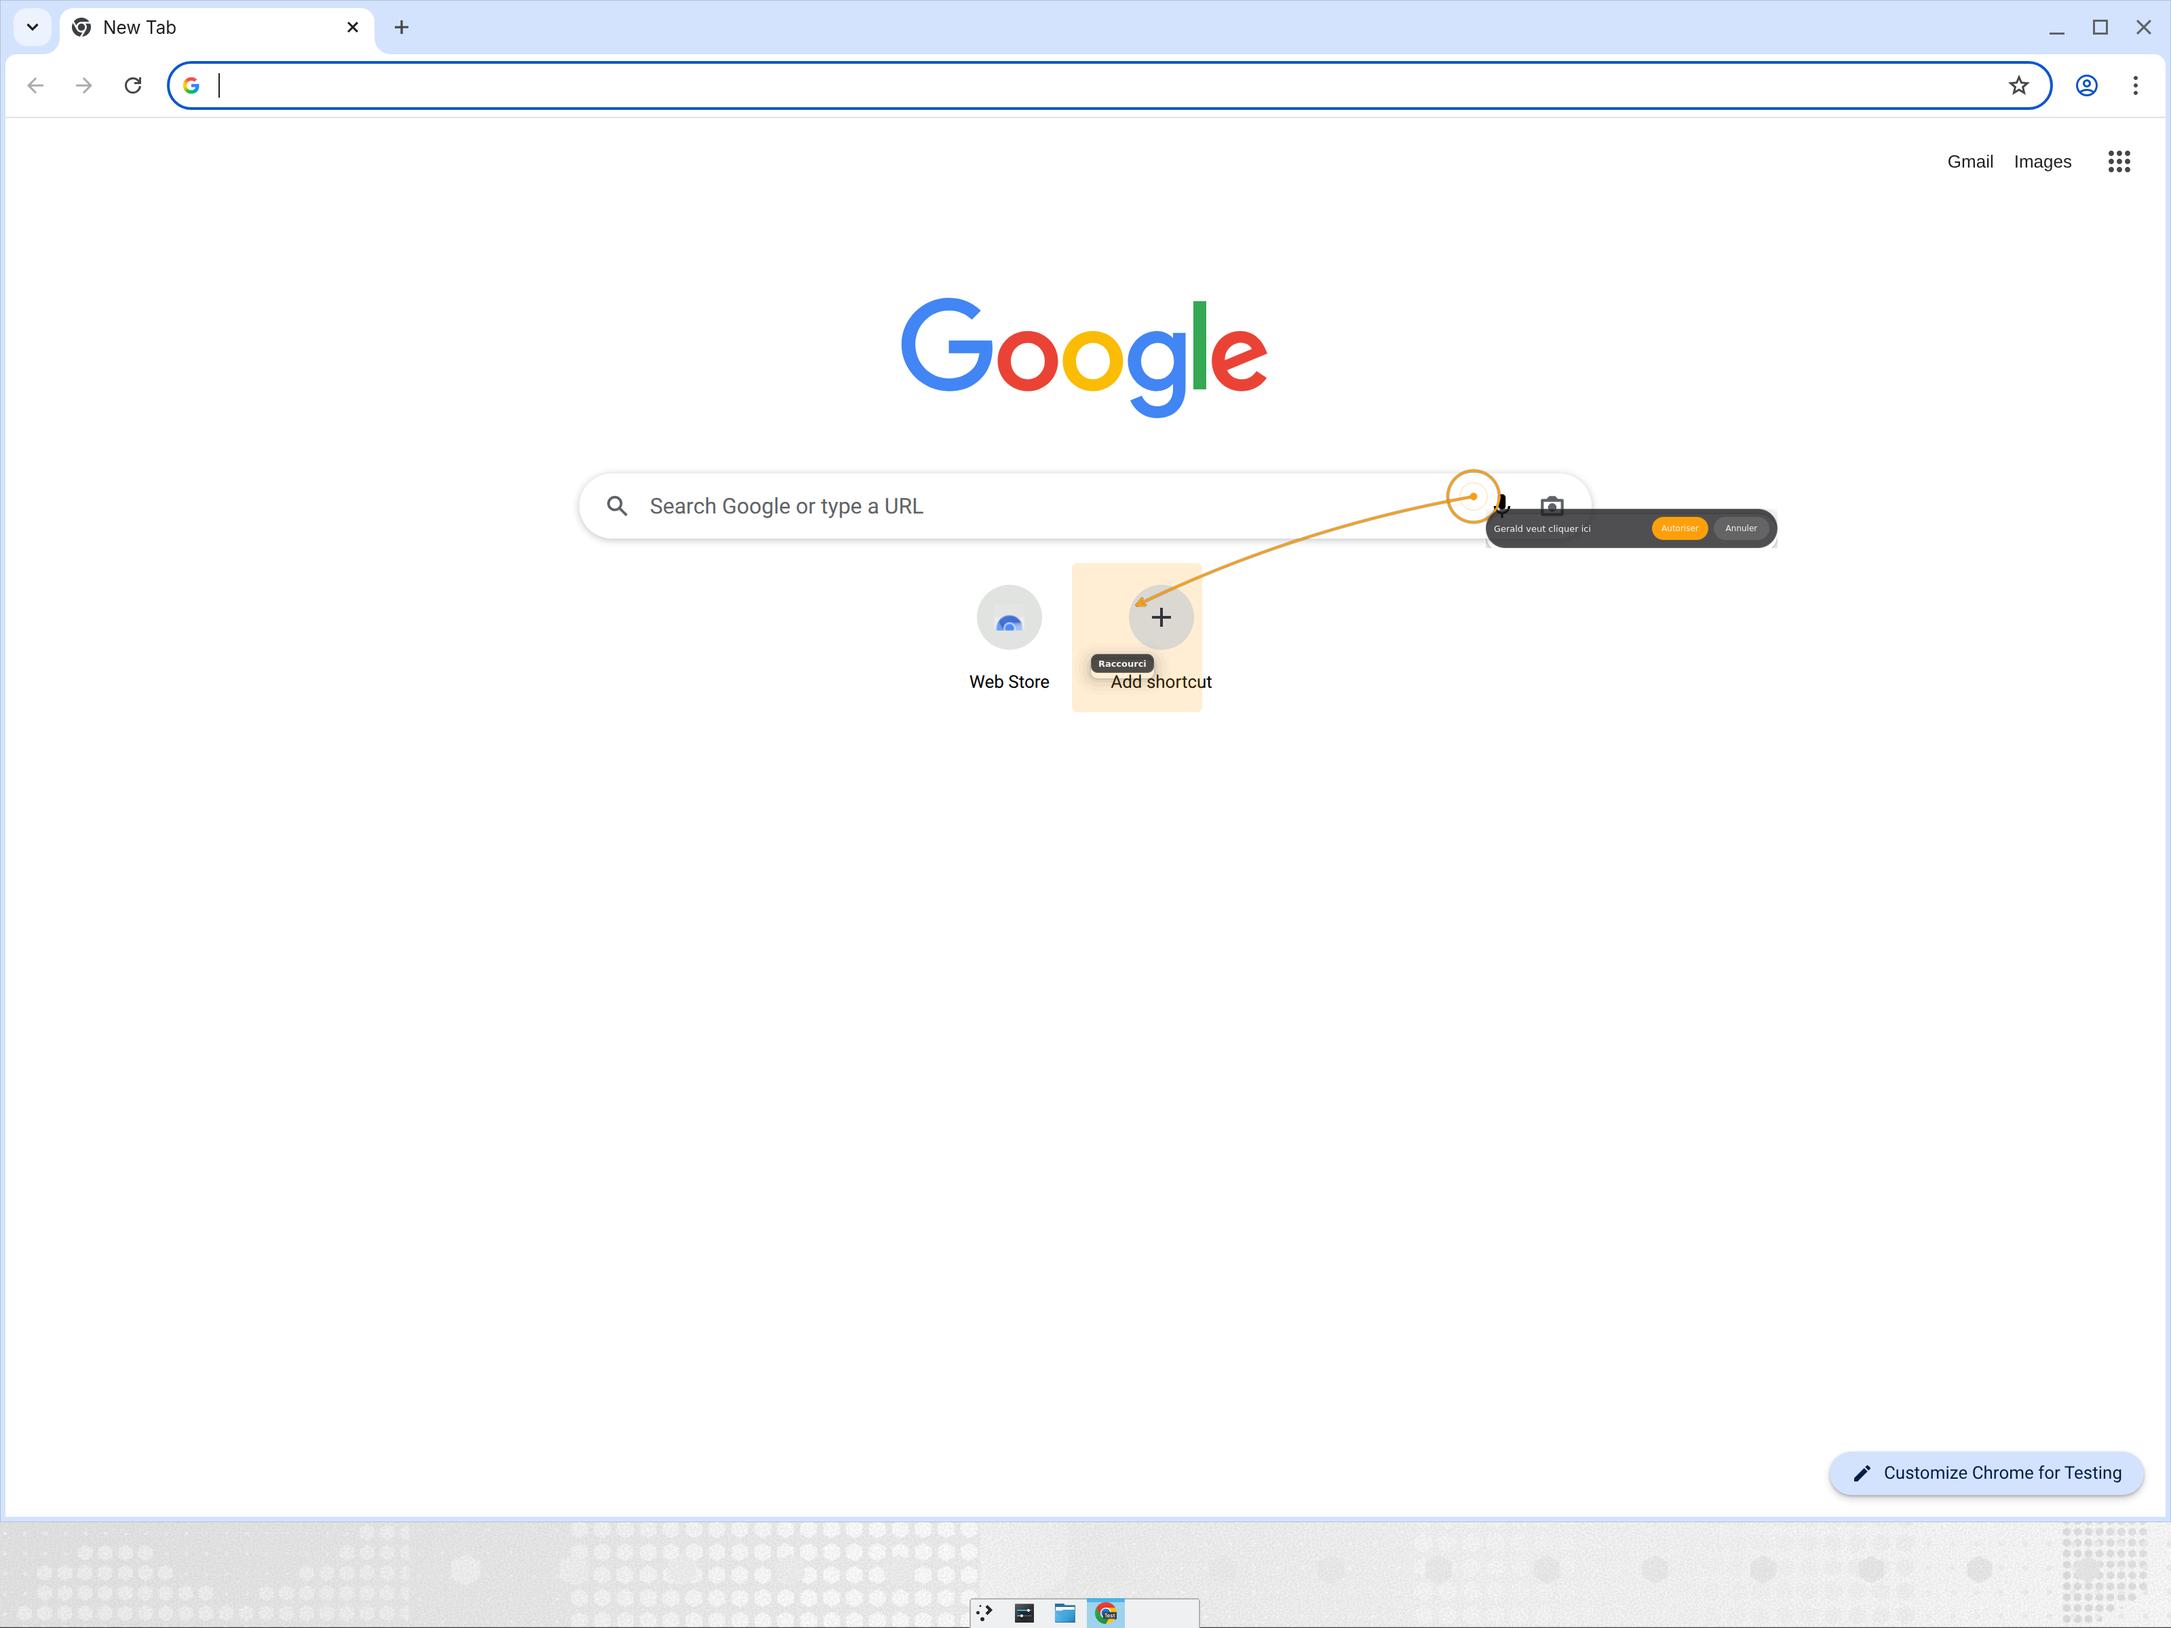
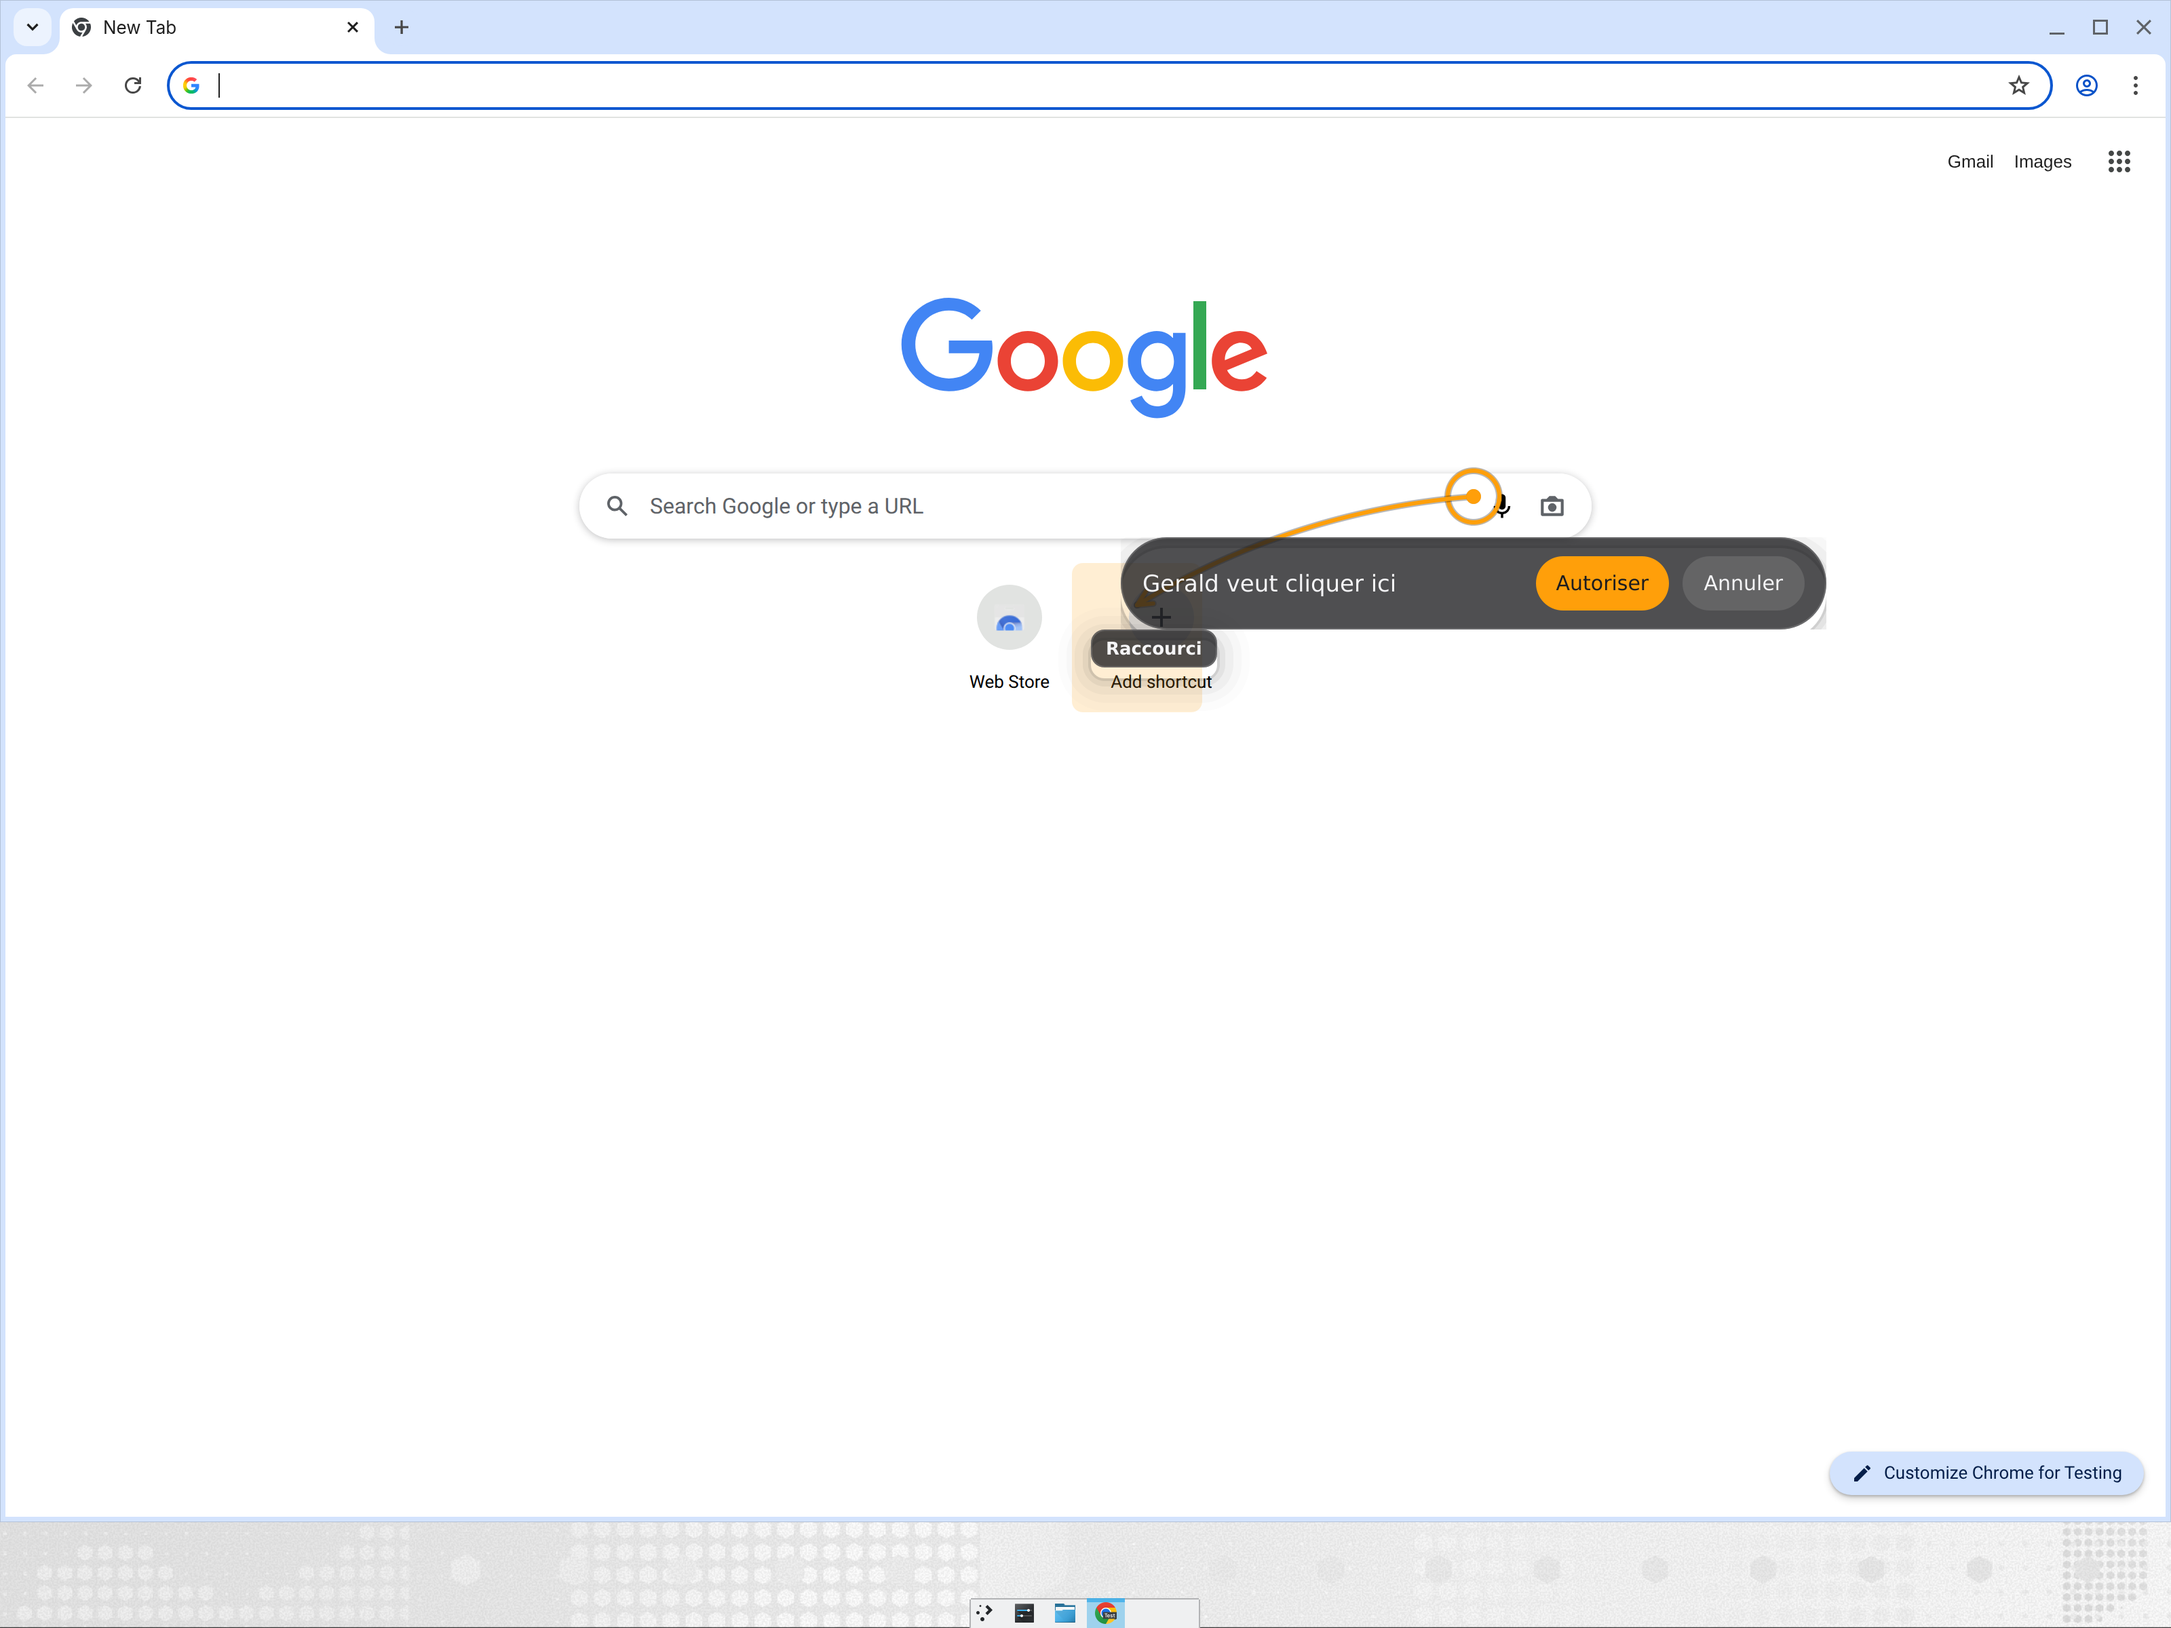
fix: improve action confirmation pill layout

Changed region(s): [[0.5, 0.2812, 0.8438, 0.4375]]

diff --git a/gerald/overlay/window.py b/gerald/overlay/window.py
@@ -70,6 +70,23 @@ ACCENT = _accent_color()
 Rect = tuple[int, int, int, int]
 
 
+def _confirmation_position(
+    target: Rect,
+    area: Rect,
+    pill_size: tuple[int, int],
+    gap: int = 12,
+) -> tuple[int, int]:
+    target_x, target_y, target_width, target_height = target
+    area_x, area_y, area_width, area_height = area
+    pill_width, pill_height = pill_size
+    x = round(target_x + target_width / 2 - pill_width / 2)
+    x = min(max(area_x, x), area_x + area_width - pill_width)
+    below = target_y + target_height + gap
+    y = below if below + pill_height <= area_y + area_height else target_y - gap - pill_height
+    y = min(max(area_y, y), area_y + area_height - pill_height)
+    return x, y
+
+
 @dataclass(frozen=True)
 class _ScreenMapping:
     physical: Rect
@@ -264,27 +281,23 @@ class _ConfirmationPill(QWidget):
         self.finish = finish
         self.setAttribute(Qt.WidgetAttribute.WA_TranslucentBackground, True)
         self.setAttribute(Qt.WidgetAttribute.WA_ShowWithoutActivating, True)
-        self.setFixedSize(430, 58)
+        self.setFixedSize(520, 68)
         layout = QHBoxLayout(self)
-        layout.setContentsMargins(12, 7, 12, 7)
-        layout.setSpacing(8)
+        layout.setContentsMargins(16, 10, 16, 10)
+        layout.setSpacing(10)
         self.label = QLabel(text, self)
-        self.label.setFont(QFont(owner._font_family, 10, QFont.Weight.Medium))
+        self.label.setFont(QFont(owner._font_family, 13, QFont.Weight.Medium))
         self.label.setStyleSheet("QLabel { background: transparent; color: #F5F5F7; }")
-        self.label.setMaximumWidth(225)
+        self.label.setMaximumWidth(280)
         layout.addWidget(self.label, 1)
+        self.buttons: list[tuple[QPushButton, bool]] = []
         for title, approved in (("Autoriser", True), ("Annuler", False)):
             button = QPushButton(title, self)
-            button.setFixedHeight(34)
-            button.setFont(QFont(owner._font_family, 9, QFont.Weight.Medium))
-            color = ACCENT.name() if approved else "rgba(255,255,255,0.12)"
-            button.setStyleSheet(
-                f"QPushButton {{ color: #F5F5F7; background: {color}; border: none; "
-                "border-radius: 17px; padding: 0 12px; }"
-                "QPushButton:hover { background: rgba(255,255,255,0.22); }"
-            )
+            button.setMinimumHeight(40)
+            button.setFont(QFont(owner._font_family, 11, QFont.Weight.Medium))
             button.clicked.connect(lambda _checked=False, value=approved: self.finish(value))
             layout.addWidget(button)
+            self.buttons.append((button, approved))
         QTimer.singleShot(15000, lambda: self.finish(False))
 
     def paintEvent(self, event) -> None:
@@ -292,10 +305,20 @@ class _ConfirmationPill(QWidget):
         painter = QPainter(self)
         painter.setRenderHint(QPainter.RenderHint.Antialiasing)
         dark = self.owner._dark_for_global_logical(self.frameGeometry().center())
-        self.owner._draw_glass_card(painter, QRectF(self.rect()), 29, dark)
+        self.owner._draw_glass_card(painter, QRectF(self.rect()), self.height() / 2, dark)
+        _fill, label, _hairline = self.owner._palette_colors(dark)
         self.label.setStyleSheet(
-            f"QLabel {{ background: transparent; color: {'#F5F5F7' if dark else '#1D1D1F'}; }}"
+            f"QLabel {{ background: transparent; color: {label.name()}; }}"
         )
+        cancel_background = "rgba(255,255,255,0.12)" if dark else "rgba(0,0,0,0.06)"
+        for button, approved in self.buttons:
+            background = ACCENT.name() if approved else cancel_background
+            foreground = "#1D1D1F" if approved else label.name()
+            button.setStyleSheet(
+                f"QPushButton {{ color: {foreground}; background: {background}; border: none; "
+                "border-radius: 20px; padding: 0 14px; }"
+                "QPushButton:hover { background: rgba(127,127,127,0.22); }"
+            )
         painter.end()
 
 
@@ -429,7 +452,7 @@ class OverlayWindow(QWidget):
         self._marks_visible = visible
         self.update()
 
-    def show_confirmation(self, text, point, completion, result) -> None:
+    def show_confirmation(self, text, target_rect, completion, result) -> None:
         self.dismiss_confirmation()
         holder: dict[str, _ConfirmationPill] = {}
 
@@ -445,18 +468,36 @@ class OverlayWindow(QWidget):
         pill = _ConfirmationPill(self, text, finish)
         holder["pill"] = pill
         self._confirmation = pill
-        if point is None:
+        if target_rect is None:
             from PyQt6.QtGui import QCursor
 
-            x, y = QCursor.pos().x(), QCursor.pos().y()
+            cursor = QCursor.pos()
+            target = (cursor.x(), cursor.y(), 0, 0)
         else:
-            mapped = self._global_physical_to_logical(*point)
-            x, y = mapped[:2] if mapped is not None else point
-        screen = QApplication.screenAt(QPoint(round(x), round(y))) or QApplication.primaryScreen()
+            left, top, width, height = target_rect
+            mapped_top = self._global_physical_to_logical(left, top)
+            mapped_bottom = self._global_physical_to_logical(left + width, top + height)
+            if mapped_top is None or mapped_bottom is None:
+                ratio = QApplication.primaryScreen().devicePixelRatio()
+                mapped_top = (left / ratio, top / ratio, ratio)
+                mapped_bottom = ((left + width) / ratio, (top + height) / ratio, ratio)
+            target = (
+                round(mapped_top[0]),
+                round(mapped_top[1]),
+                max(1, round(mapped_bottom[0] - mapped_top[0])),
+                max(1, round(mapped_bottom[1] - mapped_top[1])),
+            )
+        center = QPoint(round(target[0] + target[2] / 2), round(target[1] + target[3] / 2))
+        screen = QApplication.screenAt(center) or QApplication.primaryScreen()
         if screen is not None:
             area = screen.availableGeometry()
-            x = min(max(area.left(), round(x + 18)), area.right() - pill.width())
-            y = min(max(area.top(), round(y + 18)), area.bottom() - pill.height())
+            x, y = _confirmation_position(
+                target,
+                (area.x(), area.y(), area.width(), area.height()),
+                (pill.width(), pill.height()),
+            )
+        else:
+            x, y = target[0], target[1] + target[3] + 12
         pill.move(x, y)
         pill.show()
         pill.raise_()

diff --git a/scripts/render_confirm_preview.py b/scripts/render_confirm_preview.py
@@ -11,7 +11,7 @@ from PyQt6.QtGui import QImage, QPainter
 from PyQt6.QtWidgets import QApplication
 
 from gerald.capture.screen import MonitorRect, capture_from_image
-from gerald.overlay.window import OverlayWindow
+from gerald.overlay.window import OverlayWindow, _ScreenMapping, _confirmation_position
 from gerald.perception.grounding import ScreenRect
 from gerald.tools.registry import (
     ArrowCommand,
@@ -32,7 +32,12 @@ def render() -> None:
     capture = capture_from_image(source, MonitorRect(0, 0, width, height), max_width=width)
     app = QApplication.instance() or QApplication([])
     overlay = OverlayWindow()
-    overlay.setGeometry(0, 0, width, height)
+    dpr = width / 1600
+    logical_width, logical_height = round(width / dpr), round(height / dpr)
+    overlay.setGeometry(0, 0, logical_width, logical_height)
+    overlay._screen_mappings = lambda: [
+        _ScreenMapping((0, 0, width, height), (0, 0, logical_width, logical_height), dpr)
+    ]
     overlay.set_capture(capture)
 
     sx, sy = width / 1600, height / 1200
@@ -59,11 +64,14 @@ def render() -> None:
     painter = QPainter(screen)
     source_image = QImage(source.tobytes(), width, height, width * 3, QImage.Format.Format_RGB888).copy()
     painter.drawImage(0, 0, source_image)
+    painter.save()
+    painter.scale(dpr, dpr)
     overlay.render(painter)
-    point = (mic[0], mic[1])
+    painter.restore()
+    target_rect = (mic[0] - round(18 * sx), mic[1] - round(18 * sy), round(36 * sx), round(36 * sy))
     overlay.show_confirmation(
         "Gerald veut cliquer ici",
-        point,
+        target_rect,
         threading.Event(),
         {"approved": False},
     )
@@ -71,9 +79,17 @@ def render() -> None:
     pill = overlay._confirmation
     if pill is None:
         raise RuntimeError("Confirmation pill was not created")
-    pill.move(min(width - pill.width() - 24, point[0] + 18), min(height - pill.height() - 24, point[1] + 18))
+    target_logical = tuple(round(value / dpr) for value in target_rect)
+    pill.move(
+        *_confirmation_position(
+            target_logical,
+            (0, 0, logical_width, logical_height),
+            (pill.width(), pill.height()),
+        )
+    )
     app.processEvents()
     painter.save()
+    painter.scale(dpr, dpr)
     painter.translate(pill.x(), pill.y())
     pill.render(painter)
     painter.restore()

diff --git a/gerald/actions/input.py b/gerald/actions/input.py
@@ -47,7 +47,7 @@ class InputActions:
         keyboard_factory: Callable[[], Any] | None = None,
         click_delay: float = 0.35,
         delay_wait: Callable[[threading.Event, float], bool] | None = None,
-        request_confirmation: Callable[[str, tuple[int, int] | None, float], bool] | None = None,
+        request_confirmation: Callable[[str, tuple[int, int, int, int] | None, float], bool] | None = None,
         confirmation_timeout: float = 15.0,
     ) -> None:
         self.require_confirmation = require_confirmation
@@ -126,7 +126,11 @@ class InputActions:
         if session.abort_event.is_set():
             return error("action cancelled")
 
-        point = tuple(round(value) for value in target.rect.center) if name in {"click", "scroll"} and target else None
+        target_rect = (
+            (target.rect.x, target.rect.y, target.rect.w, target.rect.h)
+            if name in {"click", "scroll"} and target
+            else None
+        )
         if name == "click" and target is not None:
             on_commands([PointCommand(target.rect)])
         elif name == "scroll" and target is not None and self.require_confirmation and not session.approved:
@@ -136,7 +140,7 @@ class InputActions:
             with session.confirmation_lock:
                 if not session.approved:
                     if self.request_confirmation is None or not self.request_confirmation(
-                        prompt, point, self.confirmation_timeout
+                        prompt, target_rect, self.confirmation_timeout
                     ):
                         return error("user declined")
                     session.approved = True

diff --git a/tests/test_overlay.py b/tests/test_overlay.py
@@ -10,6 +10,7 @@ from PyQt6.QtWidgets import QApplication
 from gerald.overlay.window import (
     OverlayWindow,
     _build_screen_mappings,
+    _confirmation_position,
     _physical_to_logical,
 )
 from gerald.perception.grounding import ScreenRect
@@ -76,13 +77,16 @@ def test_confirmation_pill_renders_and_declines_without_accepting_focus():
     overlay.setGeometry(0, 0, 640, 400)
     completion = threading.Event()
     result = {"approved": False}
-    overlay.show_confirmation("Gerald veut cliquer ici", (100, 100), completion, result)
+    overlay.show_confirmation("Gerald veut cliquer ici", (100, 100, 20, 20), completion, result)
     app.processEvents()
 
     pill = overlay._confirmation
     assert pill is not None
     assert pill.windowFlags() & Qt.WindowType.WindowDoesNotAcceptFocus
     assert not pill.windowFlags() & Qt.WindowType.WindowTransparentForInput
+    assert pill.label.font().pointSize() == 13
+    assert pill.height() >= 32
+    assert all(button.minimumHeight() >= 24 for button, _approved in pill.buttons)
     image = QImage(pill.width(), pill.height(), QImage.Format.Format_ARGB32)
     image.fill(0)
     painter = QPainter(image)
@@ -95,3 +99,8 @@ def test_confirmation_pill_renders_and_declines_without_accepting_focus():
     assert result["approved"] is False
     overlay.close()
     app.processEvents()
+
+
+def test_confirmation_position_avoids_target_and_flips_above_when_needed():
+    assert _confirmation_position((90, 90, 20, 20), (0, 0, 600, 400), (300, 68)) == (0, 122)
+    assert _confirmation_position((190, 330, 20, 20), (0, 0, 400, 400), (300, 68)) == (50, 250)

diff --git a/gerald/brain/realtime.py b/gerald/brain/realtime.py
@@ -39,7 +39,10 @@ class RealtimeClient:
         capture_after_action: Callable[[], tuple[Capture, list[Element], str]] | None = None,
         on_marks_visible: Callable[[bool], None] | None = None,
         input_actions: InputActions | None = None,
-        request_action_confirmation: Callable[[str, tuple[int, int] | None, float], bool] | None = None,
+        request_action_confirmation: Callable[
+            [str, tuple[int, int, int, int] | None, float], bool
+        ]
+        | None = None,
     ) -> None:
         self.api_key = api_key
         self.model = model
